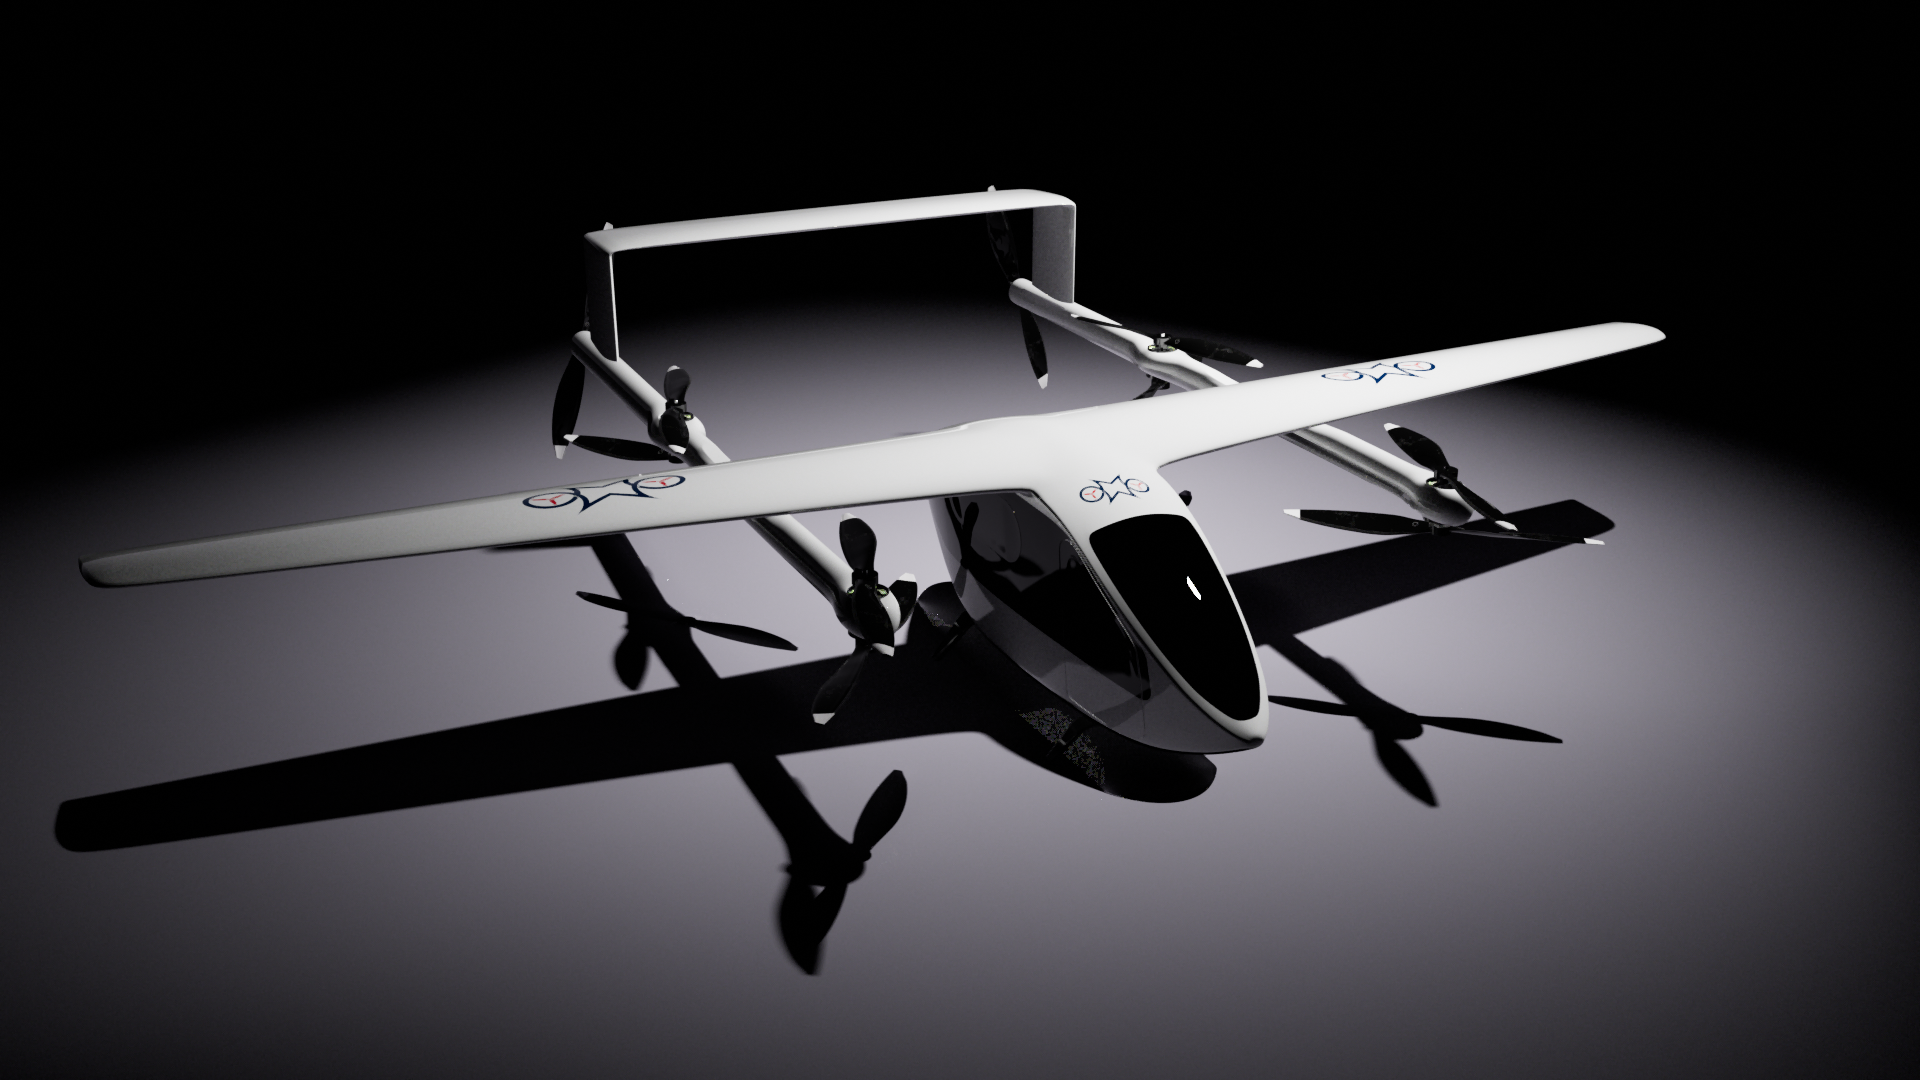
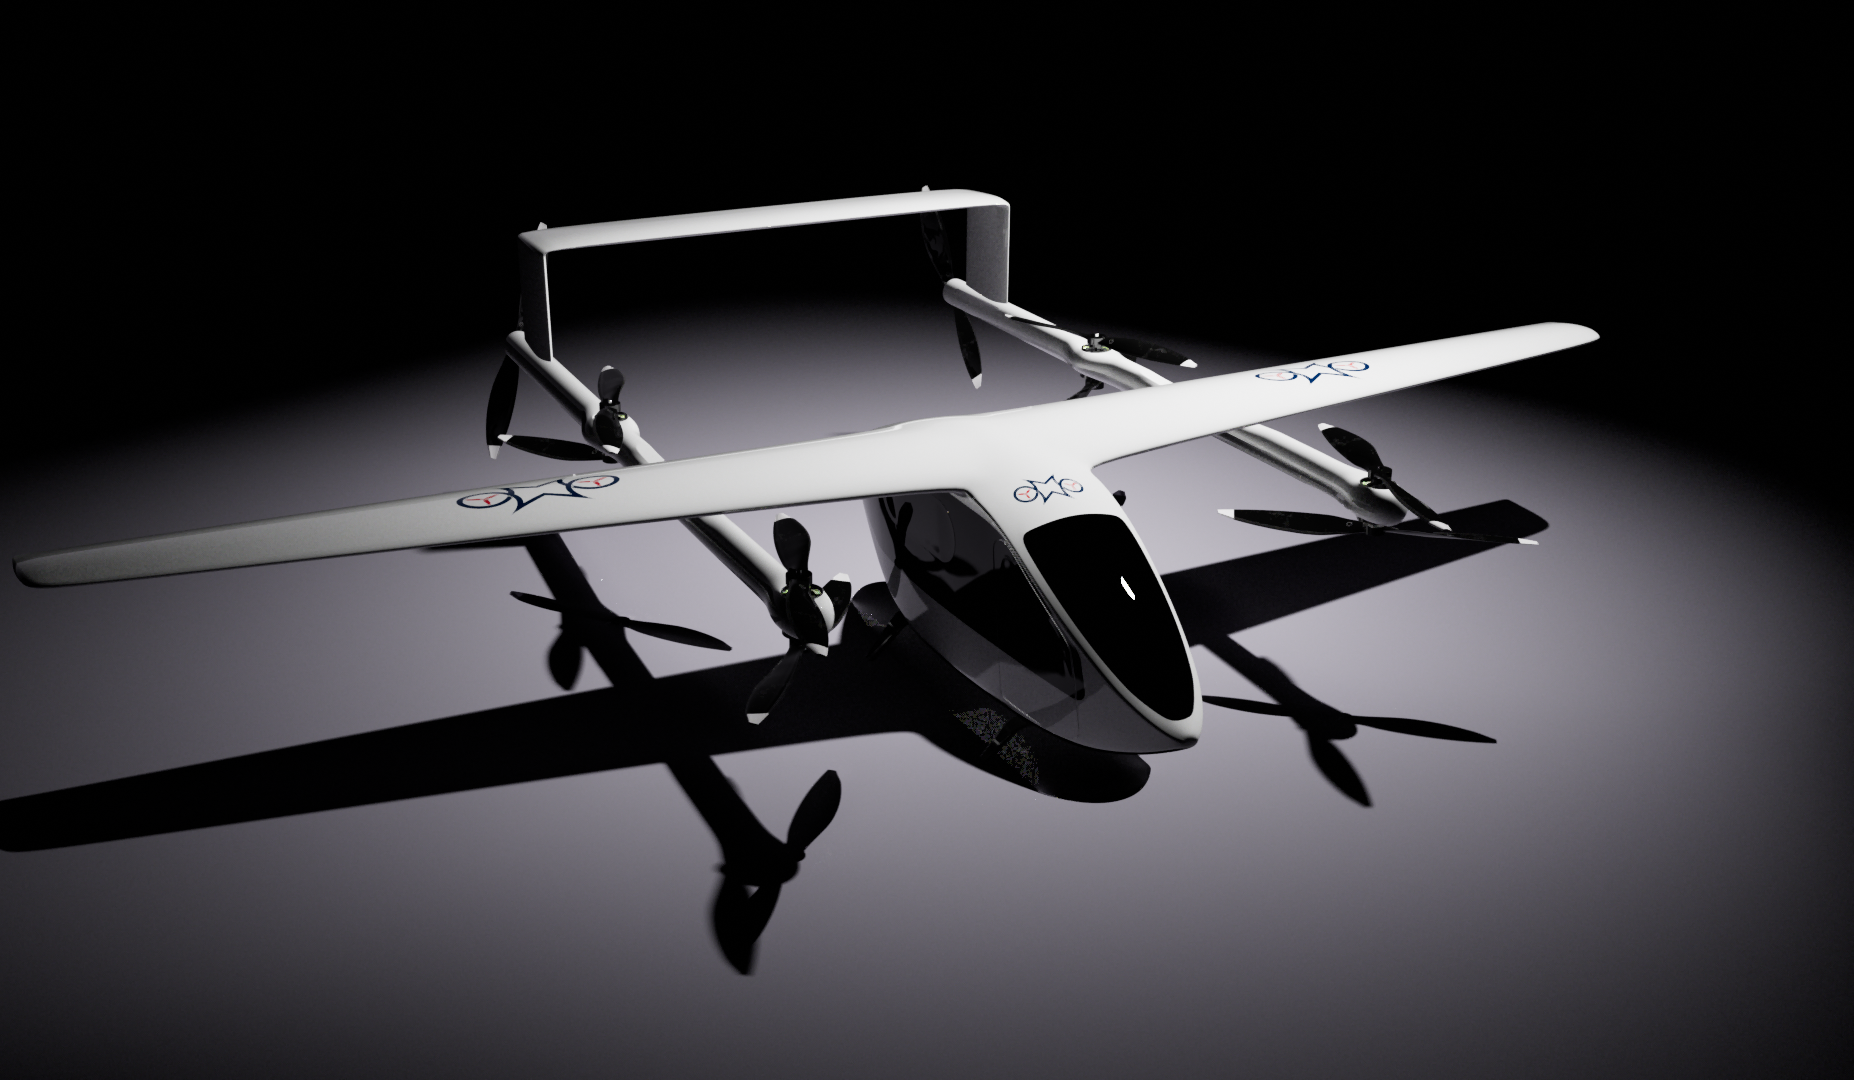
Add files via upload

Changed region(s): [[0.0, 0.1528, 0.8608, 0.9167]]

diff --git a/MagnumWings.html b/MagnumWings.html
@@ -19,7 +19,7 @@
         </header>
         
         <!-- Section 1: Message 1 -->
-        <section class="img-section" style="background-image: url('images/front_view.png');">
+        <section class="img-section" style="background-image: url('images/back_half_view.png');">
             <div class="message-box" id="msg1">
                 "Revolutionizing Aerial mobility with electric Vertical Take-Off and Landing (eVTOL)
                 technology — where efficiency meets innovation."
@@ -83,12 +83,12 @@
                         "Innovation in Flight, Revolution on Ground."
                     </div>
                 </div>
-                <div class="slide" style="background-image: url('images/right_zoom_half.png');">
+                <div class="slide" style="background-image: url('images/complete_right_side.png'); background-position: right;">
                     <div class="message-box slides" id="slide2">
                         "India's Leap into the Future of Aviation."
                     </div>
                 </div>
-                <div class="slide" style="background-image: url('images/complete_left_side.png');">
+                <div class="slide" style="background-image: url('images/complete_left_side.png'); background-position: left;">
                     <div class="message-box slides" id="slide3">
                         "Bringing skies closer."
                     </div>
@@ -102,7 +102,7 @@
         </section>
 
         <!-- Section 6: Message 2 -->
-        <section class="img-section" style="background-image: url('images/back_half_view.png');">
+        <section class="img-section" style="background-image: url('images/front_view.png');">
             <div class="message-box" id="msg2">
                 "Empowering India's skies with sustainable and cutting-edge eVTOL solutions for a smarter and greener future."
             </div>

diff --git a/style.css b/style.css
@@ -65,7 +65,7 @@ section {
     font-size: 20px;
     text-align: center;
     position: absolute;
-    width: 40%;
+    width: 50%;
     padding: 10px;
     color: #ffffff;
     background-color: rgba(0, 0, 0, 0.3);
@@ -74,13 +74,13 @@ section {
 }
 
 #msg1 {
-    left: 55%;
-    bottom: 5%;
+    left: 20%;
+    bottom: 10%;
 }
 
 #msg2 {
-    left: 30%;
-    bottom: 30%;
+    left: 25%;
+    top: 10%;
 }
 
 /*--------------------------------------------------------------
@@ -238,7 +238,6 @@ video {
 
 .video-overlay .time-box img {
     width: 30px;
-    height: 30px;
 }
 
 .video-overlay .time-box .hover-text {
@@ -346,7 +345,6 @@ section.ceo-section {
     object-fit: cover;
     border: 5px solid #fff;
     box-shadow: 0 0 15px rgba(0, 0, 0, 0.5);
-    margin-right: 1000px;
     margin-bottom: 200px;
 }
 
@@ -358,7 +356,7 @@ section.ceo-section {
     box-shadow: 0 5px 15px rgba(0, 0, 0, 0.5);
     border-radius: 15px;
     padding: 20px;
-    max-width: 1000px;
+    max-width: 800px;
 }
 
 .ceo-message #ceo-name {
@@ -432,7 +430,7 @@ footer {
 }
 
 #colorwhite:hover {
-    color: white
+    color: black
 }
 
 #colorpink:hover {
@@ -511,7 +509,7 @@ footer {
     #msg2 {
         width: 80%;
         left: 10%;
-        bottom: 25%;
+        top: 30%;
     }
 
     .ceo-image {
@@ -604,15 +602,14 @@ footer {
     #msg1, #msg2 {
         width: 90%;
         left: 5%;
-        bottom: 15%;
     }
 
     #msg1 {
-        bottom: 5%;
+        bottom: 10%;
     }
 
     .company-details p {
-        font-size: 13px;
+        font-size: 15px;
     }
 
     #slide1, #slide2, #slide3 {
